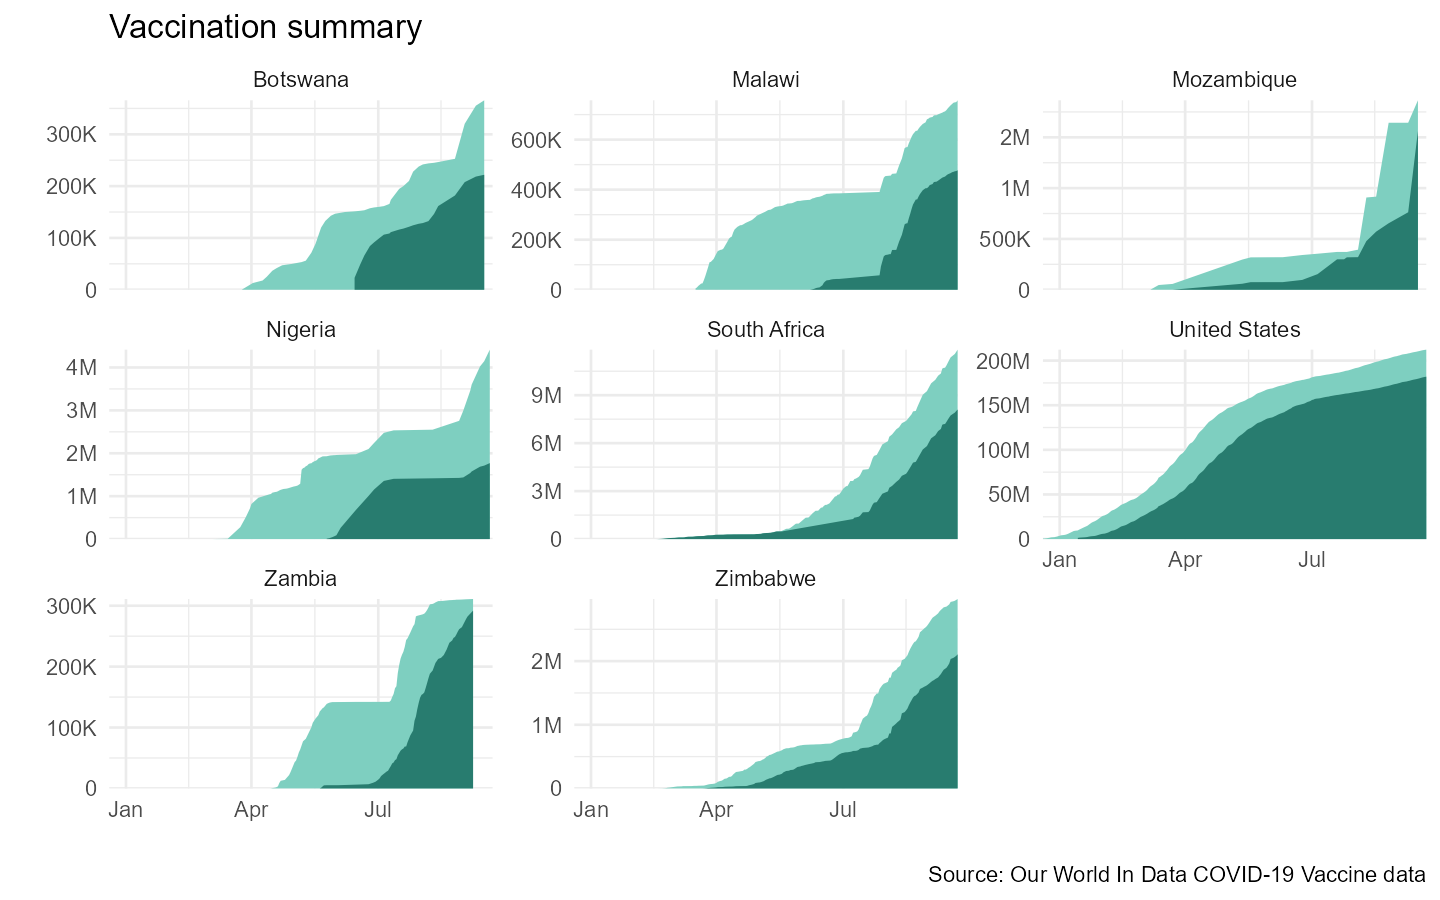
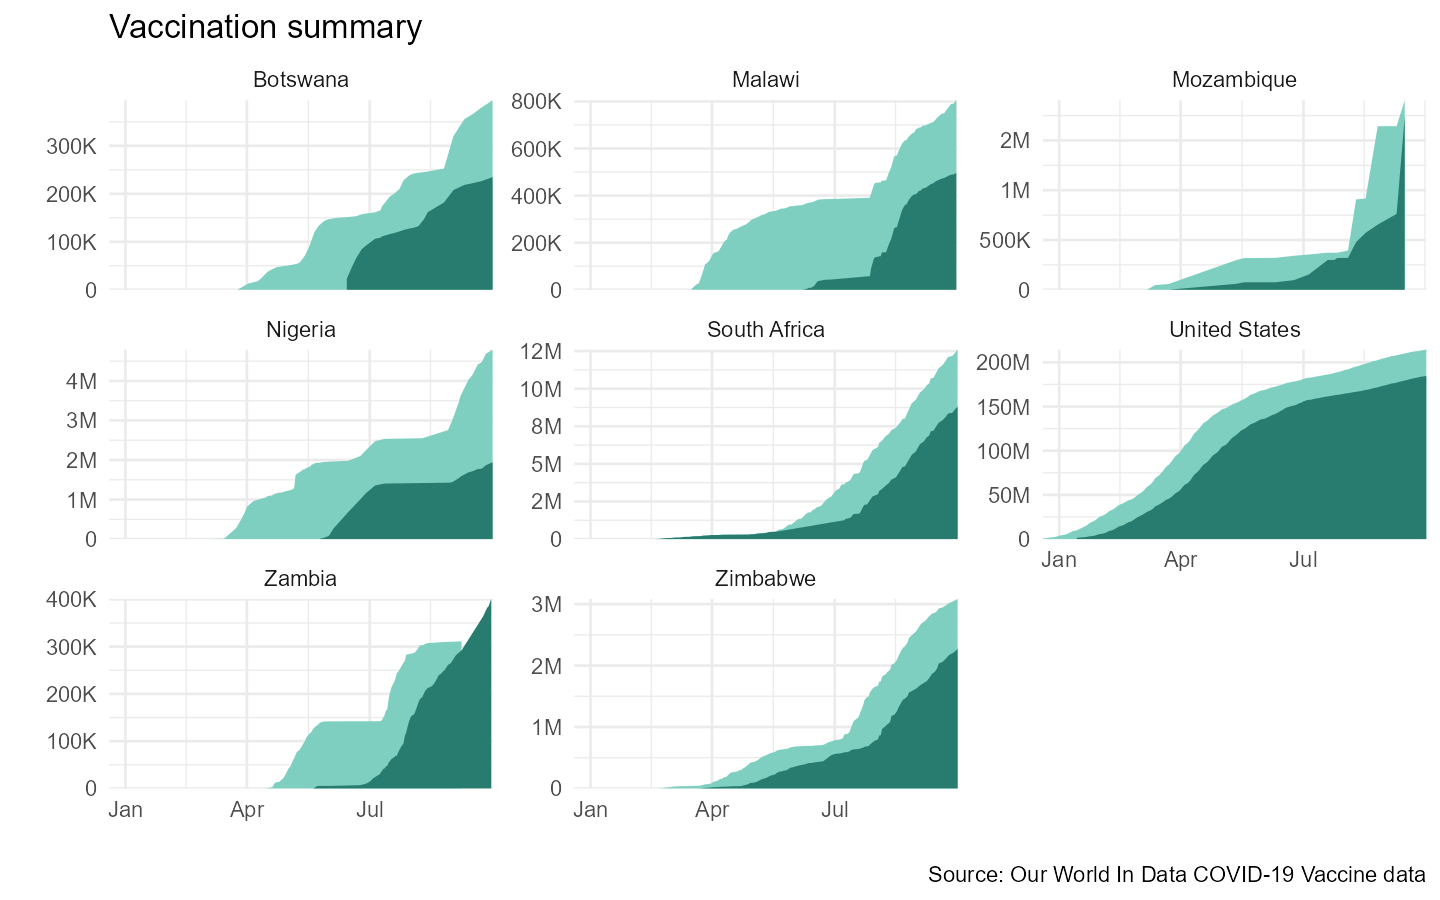
update pkgdown

diff --git a/docs/articles/How-to-fetch-COVID-vaccine-data.html b/docs/articles/How-to-fetch-COVID-vaccine-data.html
@@ -90,7 +90,7 @@
 
       
 
-      </header><script src="How-to-fetch-COVID-vaccine-data_files/accessible-code-block-0.0.1/empty-anchor.js"></script><div class="row">
+      </header><script src="How-to-fetch-COVID-vaccine-data_files/header-attrs-2.10/header-attrs.js"></script><div class="row">
   <div class="col-md-9 contents">
     <div class="page-header toc-ignore">
       <h1 data-toc-skip>How to fetch COVID vaccine data</h1>
@@ -104,16 +104,14 @@
 
     
     
-<pre><code>#&gt; Warning: package 'magrittr' was built under R version 4.1.1
-#&gt; 
+<pre><code>#&gt; 
 #&gt; Attaching package: 'dplyr'
 #&gt; The following objects are masked from 'package:stats':
 #&gt; 
 #&gt;     filter, lag
 #&gt; The following objects are masked from 'package:base':
 #&gt; 
-#&gt;     intersect, setdiff, setequal, union
-#&gt; Warning: package 'scales' was built under R version 4.1.1</code></pre>
+#&gt;     intersect, setdiff, setequal, union</code></pre>
 <div id="introduction" class="section level3">
 <h3 class="hasAnchor">
 <a href="#introduction" class="anchor"></a>Introduction</h3>
@@ -142,7 +140,7 @@
 <span class="co">#&gt; See help("Deprecated")</span>
 
 <span class="fu">glimpse</span><span class="op">(</span><span class="va">df_vax</span><span class="op">)</span>
-<span class="co">#&gt; Rows: 6,347</span>
+<span class="co">#&gt; Rows: 6,636</span>
 <span class="co">#&gt; Columns: 8</span>
 <span class="co">#&gt; $ countryname             &lt;chr&gt; "Angola", "Angola", "Angola", "Angola", "Angol~</span>
 <span class="co">#&gt; $ date                    &lt;date&gt; 2021-03-01, 2021-03-08, 2021-03-18, 2021-03-2~</span>
@@ -159,7 +157,7 @@
 <span class="co">#&gt; Use 'pull_vax_data' instead.</span>
 <span class="co">#&gt; See help("Deprecated")</span>
 <span class="fu">glimpse</span><span class="op">(</span><span class="va">df_vax_pepfar</span><span class="op">)</span>
-<span class="co">#&gt; Rows: 947</span>
+<span class="co">#&gt; Rows: 987</span>
 <span class="co">#&gt; Columns: 8</span>
 <span class="co">#&gt; $ countryname             &lt;chr&gt; "Zambia", "Zambia", "Zambia", "Zambia", "Zambi~</span>
 <span class="co">#&gt; $ date                    &lt;date&gt; 2021-04-14, 2021-04-15, 2021-04-18, 2021-04-1~</span>

diff --git a/docs/articles/using-covid-data.html b/docs/articles/using-covid-data.html
@@ -89,7 +89,7 @@
 
       
 
-      </header><script src="using-covid-data_files/accessible-code-block-0.0.1/empty-anchor.js"></script><div class="row">
+      </header><script src="using-covid-data_files/header-attrs-2.10/header-attrs.js"></script><div class="row">
   <div class="col-md-9 contents">
     <div class="page-header toc-ignore">
       <h1 data-toc-skip>Accesing and Utilizing COVID Data</h1>
